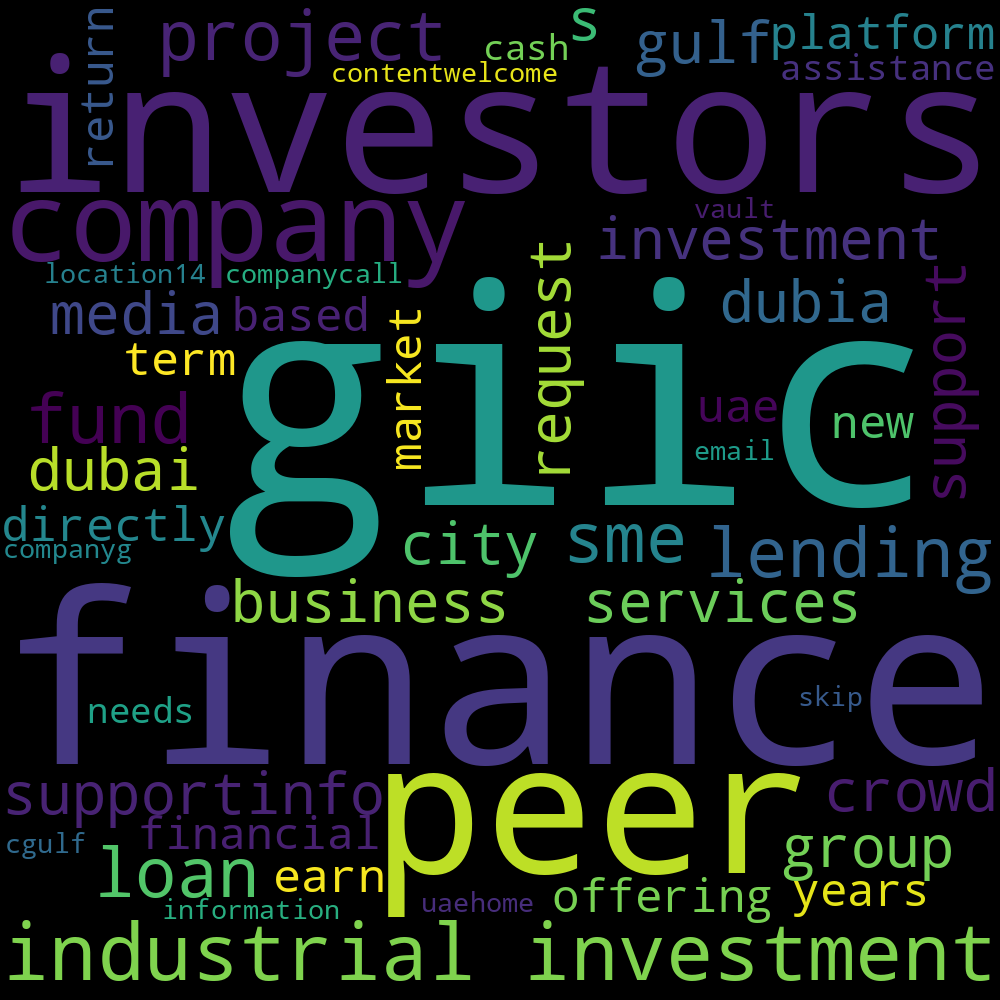
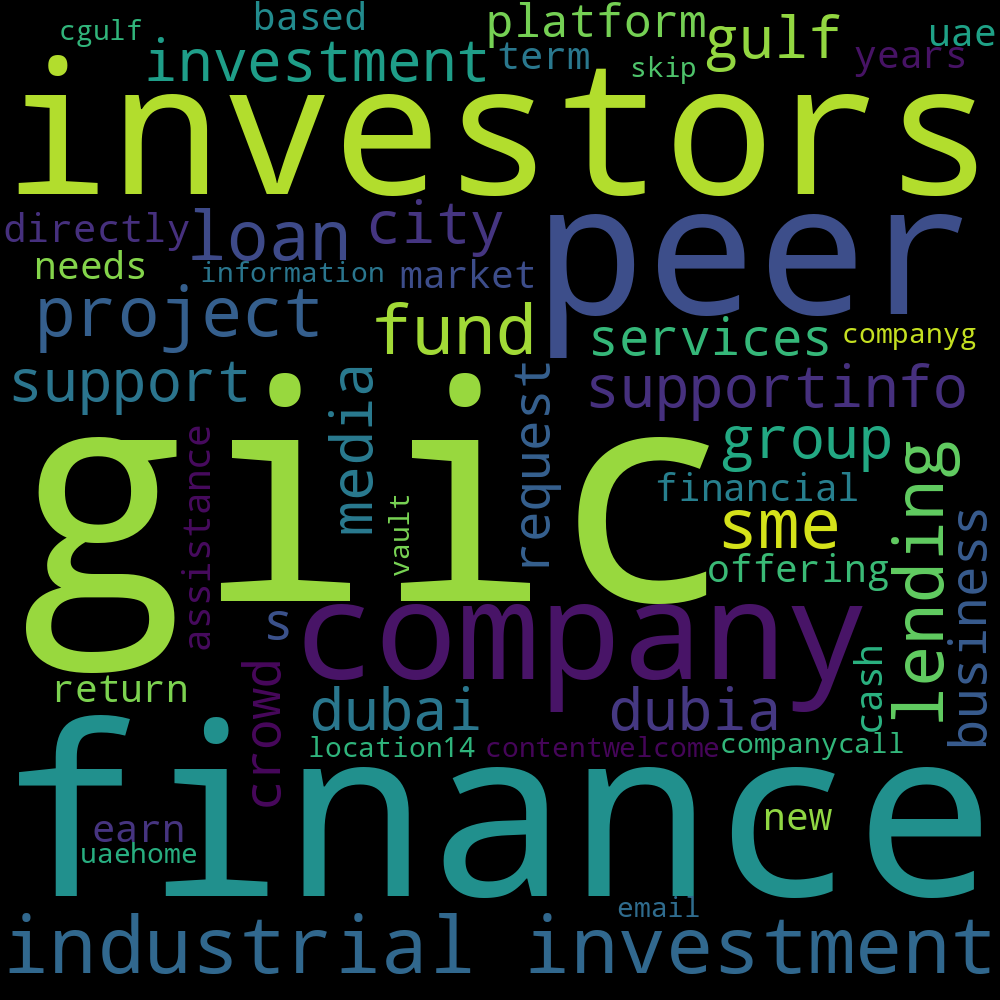
10 different world clouds are loaded

diff --git a/pages/2_wordcloud.py b/pages/2_wordcloud.py
@@ -51,24 +51,48 @@ def load_csv_text():
 df_scam_text, df_legit_text = load_csv_text()
 
 ##Generating Wordcloud
-full_text = df_scam_text['text'][0]#.astype('str')
+full_text_scam = df_scam_text['text'][0]#.astype('str')
 #one_big_string = ''.join(full_text.tolist())
-wordcloud_scam = WordCloud(width=1000, height=1000, max_words=50).generate(full_text)
+wordcloud_scam = WordCloud(width=1000, height=1000, max_words=50).generate(df_scam_text['text'][0])
 wordcloud_scam.to_file("scam_words.png")
 #Generating second Wordsmcacloud
-full_text = df_legit_text['text'][1]#.astype('str')
+full_text_legit = df_legit_text['text'][1]#.astype('str')
 #one_big_string = ''.join(full_text.tolist())
-wordcloud_legit = WordCloud(width=1000, height=1000, max_words=50).generate(full_text)
+wordcloud_legit = WordCloud(width=1000, height=1000, max_words=50).generate(df_legit_text['text'][0])
 wordcloud_legit.to_file("legit_words.png")
 
-wordcloud_scam2 = WordCloud(width=1000, height=1000, max_words=50).generate(full_text)
-wordcloud_scam2.to_file("scam_words1.png")
+wordcloud_scam2 = WordCloud(width=1000, height=1000, max_words=50).generate(df_scam_text['text'][1])
+wordcloud_scam2.to_file("scam_words2.png")
 #Generating second Wordsmcacloud
 full_text = df_legit_text['text'][1]#.astype('str')
 #one_big_string = ''.join(full_text.tolist())
-wordcloud_legit2 = WordCloud(width=1000, height=1000, max_words=50).generate(full_text)
-wordcloud_legit.to_file("legit_words2.png")
+wordcloud_legit2 = WordCloud(width=1000, height=1000, max_words=50).generate(df_legit_text['text'][1])
+wordcloud_legit2.to_file("legit_words2.png")
+
+wordcloud_scam3 = WordCloud(width=1000, height=1000, max_words=50).generate(df_scam_text['text'][2])
+wordcloud_scam3.to_file("scam_words3.png")
+#Generating second Wordsmcacloud
+full_text = df_legit_text['text'][1]#.astype('str')
+#one_big_string = ''.join(full_text.tolist())
+wordcloud_legit3 = WordCloud(width=1000, height=1000, max_words=50).generate(df_legit_text['text'][2])
+wordcloud_legit3.to_file("legit_words3.png")
 # Display Wordclouds side by side:
+
+wordcloud_scam4 = WordCloud(width=1000, height=1000, max_words=50).generate(df_scam_text['text'][3])
+wordcloud_scam4.to_file("scam_words4.png")
+#Generating second Wordsmcacloud
+full_text = df_legit_text['text'][1]#.astype('str')
+#one_big_string = ''.join(full_text.tolist())
+wordcloud_legit4 = WordCloud(width=1000, height=1000, max_words=50).generate(df_legit_text['text'][3])
+wordcloud_legit4.to_file("legit_words4.png")
+
+wordcloud_scam5 = WordCloud(width=1000, height=1000, max_words=50).generate(df_scam_text['text'][4])
+wordcloud_scam5.to_file("scam_words5.png")
+#Generating second Wordsmcacloud
+full_text = df_legit_text['text'][1]#.astype('str')
+#one_big_string = ''.join(full_text.tolist())
+wordcloud_legit5 = WordCloud(width=1000, height=1000, max_words=50).generate(df_legit_text['text'][4])
+wordcloud_legit5.to_file("legit_words5.png")
 
 count = 0
 
@@ -79,14 +103,14 @@ with st.container():
 
     with col1:
         st.set_option('deprecation.showPyplotGlobalUse', False)
-        plt.imshow(wordcloud, interpolation='bilinear')
+        plt.imshow(wordcloud_scam, interpolation='bilinear')
         plt.axis("off")
         plt.show()
         st.pyplot()
 
     with col2:
         st.set_option('deprecation.showPyplotGlobalUse', False)
-        plt.imshow(wordcloud_2, interpolation='bilinear')
+        plt.imshow(wordcloud_legit, interpolation='bilinear')
         plt.axis("off")
         plt.show()
         st.pyplot()
@@ -110,14 +134,14 @@ with st.container():
 
     with col1:
         st.set_option('deprecation.showPyplotGlobalUse', False)
-        plt.imshow(wordcloud, interpolation='bilinear')
+        plt.imshow(wordcloud_scam2, interpolation='bilinear')
         plt.axis("off")
         plt.show()
         st.pyplot()
 
     with col2:
         st.set_option('deprecation.showPyplotGlobalUse', False)
-        plt.imshow(wordcloud_2, interpolation='bilinear')
+        plt.imshow(wordcloud_legit2, interpolation='bilinear')
         plt.axis("off")
         plt.show()
         st.pyplot()
@@ -138,14 +162,14 @@ with st.container():
 
     with col1:
         st.set_option('deprecation.showPyplotGlobalUse', False)
-        plt.imshow(wordcloud, interpolation='bilinear')
+        plt.imshow(wordcloud_scam3, interpolation='bilinear')
         plt.axis("off")
         plt.show()
         st.pyplot()
 
     with col2:
         st.set_option('deprecation.showPyplotGlobalUse', False)
-        plt.imshow(wordcloud_2, interpolation='bilinear')
+        plt.imshow(wordcloud_legit3, interpolation='bilinear')
         plt.axis("off")
         plt.show()
         st.pyplot()
@@ -166,14 +190,14 @@ with st.container():
 
     with col1:
         st.set_option('deprecation.showPyplotGlobalUse', False)
-        plt.imshow(wordcloud, interpolation='bilinear')
+        plt.imshow(wordcloud_scam4, interpolation='bilinear')
         plt.axis("off")
         plt.show()
         st.pyplot()
 
     with col2:
         st.set_option('deprecation.showPyplotGlobalUse', False)
-        plt.imshow(wordcloud_2, interpolation='bilinear')
+        plt.imshow(wordcloud_legit4, interpolation='bilinear')
         plt.axis("off")
         plt.show()
         st.pyplot()
@@ -194,14 +218,14 @@ with st.container():
 
     with col1:
         st.set_option('deprecation.showPyplotGlobalUse', False)
-        plt.imshow(wordcloud, interpolation='bilinear')
+        plt.imshow(wordcloud_scam5, interpolation='bilinear')
         plt.axis("off")
         plt.show()
         st.pyplot()
 
     with col2:
         st.set_option('deprecation.showPyplotGlobalUse', False)
-        plt.imshow(wordcloud_2, interpolation='bilinear')
+        plt.imshow(wordcloud_legit5, interpolation='bilinear')
         plt.axis("off")
         plt.show()
         st.pyplot()
